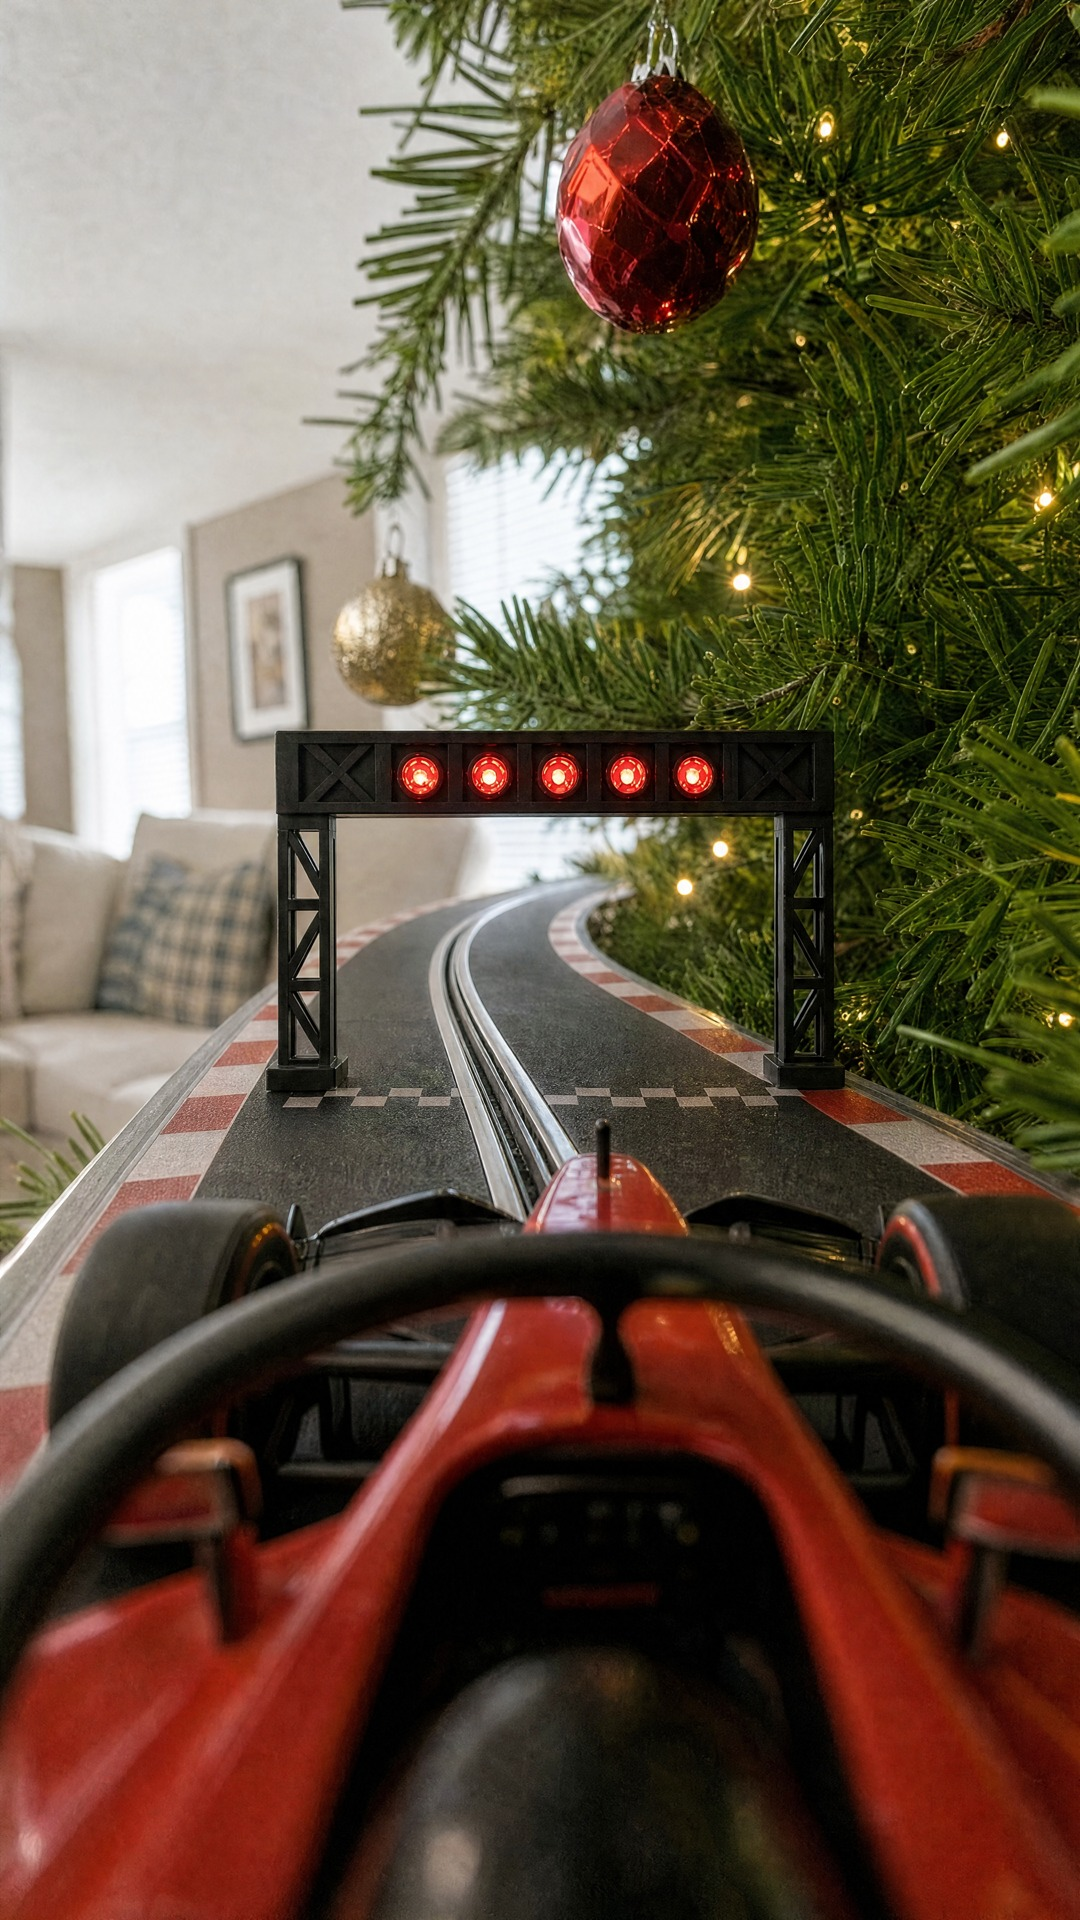
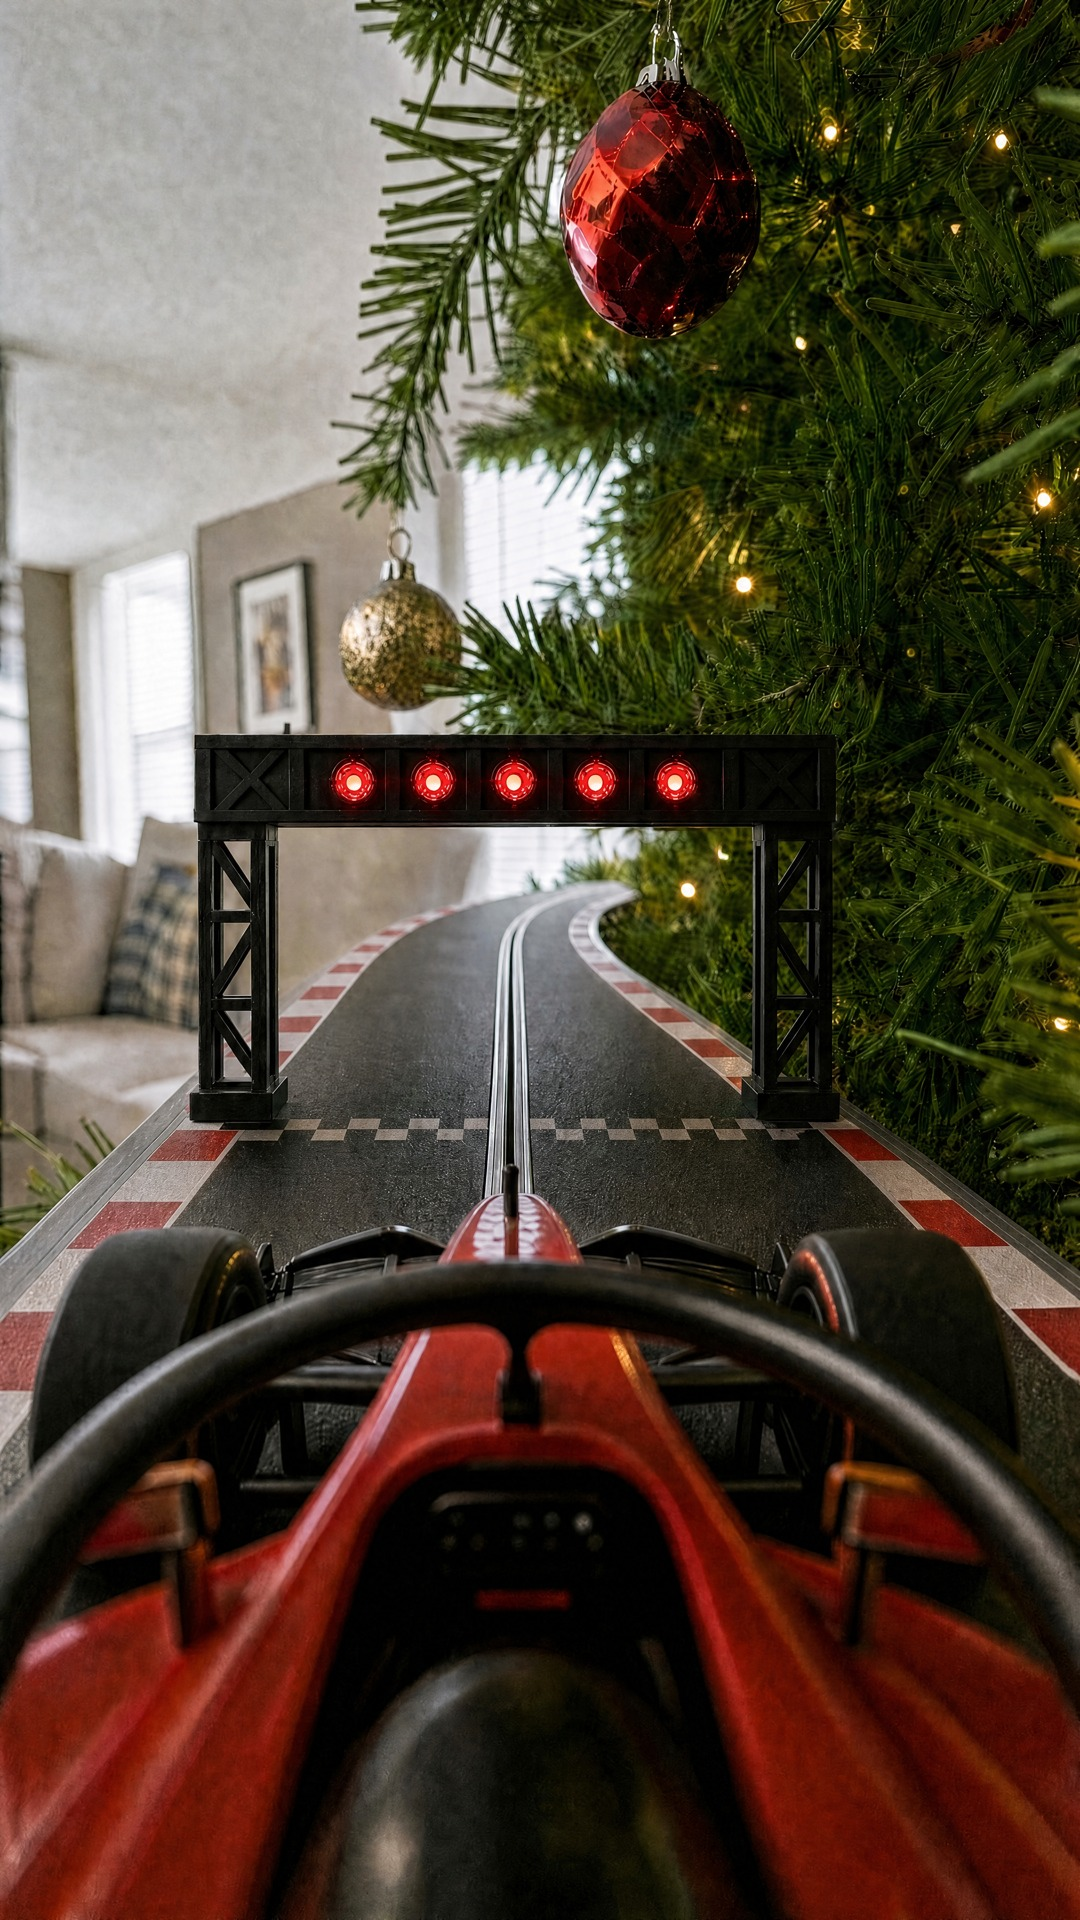
TREE PRIX: telecomanda volan F1, POV simetric, poza in cursa refacuta
Claude-Session: https://claude.ai/code/session_0182QBD7L6o3B4fpDgewD35i

diff --git a/products/f1-tree-racer/render_scena.py b/products/f1-tree-racer/render_scena.py
@@ -8,7 +8,10 @@ TREE_H, TREE_R = 213, 70
 tree = lambda h: TREE_R * (1 - h / TREE_H)
 RH, RR, LANE = 70, 55, 10                      # înălțime cerc, rază, lățime bandă
 TH_G = np.radians(-55)                          # semaforul în față-dreapta (să se vadă din față)
-TH_C = TH_G - np.radians(17)                    # mașina: înainte de linie (sens trigonometric)
+TH_C = TH_G - np.radians(17)
+import os
+if os.environ.get('CAR_DEG'): TH_C = np.radians(float(os.environ['CAR_DEG']))
+LIGHTS_ON = os.environ.get('LIGHTS', '1') == '1'                    # mașina: înainte de linie (sens trigonometric)
 W, H = 1080, 1920
 quads = []                                      # (puncte 3D, culoare, verificare_ocluzie)
 def ringpt(th, off, z=RH): r = RR + off; return np.array([r*np.cos(th), r*np.sin(th), z])
@@ -47,14 +50,14 @@ for k in range(5):
     c = ringpt(TH_G, -3.6 + 1.8*k, RH+12.2) - t*0.85
     quads.append((np.array([c + r*0.6, c + r*0.6 + np.array([0,0,0.0]) + np.array([0,0,1.2])*0, c, c]) , (0,0,0), True)) if False else None
     q = np.array([c - r*0.6, c + r*0.6, c + r*0.6 + np.array([0, 0, 1.2]) - np.array([0,0,2.4]), c - r*0.6 - np.array([0, 0, 1.2])])
-    quads.append((np.array([c - r*0.6 + [0,0,0.6], c + r*0.6 + [0,0,0.6], c + r*0.6 - [0,0,0.6], c - r*0.6 - [0,0,0.6]]), (230, 30, 30), True))
+    quads.append((np.array([c - r*0.6 + [0,0,0.6], c + r*0.6 + [0,0,0.6], c + r*0.6 - [0,0,0.6], c - r*0.6 - [0,0,0.6]]), (230, 30, 30) if LIGHTS_ON else (60, 20, 20), True))
 # mașina: bloc 16 x 6 x 4, orientat pe tangentă, centrat pe șanț; bot spre sensul de mers
 t, r = frame(TH_C)
 box(ringpt(TH_C, 0), t, r, 16, 6, 3, (190, 25, 25))
 box(ringpt(TH_C, 0) + t*7.2, t, r, 1.6, 7.5, 0.8, (30, 30, 30))      # aripa față (în sensul de mers)
 box(ringpt(TH_C, 0) - t*7.2, t, r, 1.6, 6.5, 3.8, (30, 30, 30))      # aripa spate
 # camere
-if VIEW == "hero":
+if VIEW in ("hero", "cursa"):
     cam = np.array([0, -340, 120]); look = np.array([0, 0, 95]); fov = np.radians(40)
 elif VIEW == "aproape":                          # din spatele mașinii, la nivelul pistei, puțin în afara cercului
     t, r = frame(TH_C); cam = ringpt(TH_C, 4, RH + 13) - t*32; look = ringpt(TH_G, -6, RH + 3); fov = np.radians(60)
@@ -70,12 +73,12 @@ def hidden(P):
     return np.any((R[:, 2] > 0) & (R[:, 2] < TREE_H) & (rr < CORE(R[:, 2])))
 img = Image.new("RGB", (W, H), (236, 230, 218)); dr = ImageDraw.Draw(img)
 # podea
-if VIEW == "hero": dr.rectangle([0, int(H*0.8), W, H], fill=(190, 160, 120))
+if VIEW in ("hero", "cursa"): dr.rectangle([0, int(H*0.8), W, H], fill=(190, 160, 120))
 # brad: con opac (fețele vizibile), desenat după adâncime împreună cu restul
 zs = np.linspace(0, TREE_H, 90); ths = np.linspace(0, 2*np.pi, 160)
 for i in range(len(zs)-1):
     for j in range(len(ths)-1):
-        pz = lambda z, th: np.array([CORE(z)*np.cos(th) if VIEW != 'hero' else tree(z)*np.cos(th), (CORE(z) if VIEW != 'hero' else tree(z))*np.sin(th), z])
+        pz = lambda z, th: np.array([CORE(z)*np.cos(th) if VIEW not in ('hero','cursa') else tree(z)*np.cos(th), (CORE(z) if VIEW not in ('hero','cursa') else tree(z))*np.sin(th), z])
         q = np.array([pz(zs[i], ths[j]), pz(zs[i], ths[j+1]), pz(zs[i+1], ths[j+1]), pz(zs[i+1], ths[j])])
         n = np.array([np.cos((ths[j]+ths[j+1])/2), np.sin((ths[j]+ths[j+1])/2), 0])
         if (q.mean(0) - cam) @ n > 0: continue
@@ -84,6 +87,6 @@ order = sorted(quads, key=lambda qc: -np.mean((qc[0] - cam) @ fwd))
 for q, col, chk in order:
     xy, z = proj(q)
     if (z <= 1).any(): continue
-    if chk and VIEW == "hero" and hidden(q.mean(0)): continue
+    if chk and VIEW in ("hero", "cursa") and hidden(q.mean(0)): continue
     dr.polygon([tuple(v) for v in xy], fill=col)
 img.save(OUT); print(OUT)

diff --git a/products/f1-tree-racer/qa-tree-prix.md b/products/f1-tree-racer/qa-tree-prix.md
@@ -4,7 +4,8 @@
 3. Mașina pe mijlocul șinei: șanțul intră sub mijlocul botului, iese sub mijlocul spatelui, spațiu egal stânga-dreapta, roțile în interiorul bordurilor.
 4. Mașina orientată pe direcția pistei (tangentă la cerc), mărime corectă (~60% din lățimea benzii).
 5. La start: mașina în SPATELE liniei în carouri; linia traversează toată banda, sub semafor.
-6. Semaforul stă PE pistă (picioarele pe borduri), 5 lumini roșii, nu plutește, nu e în brad.
+6. Semaforul stă PE pistă (picioarele pe borduri), 5 lumini roșii, nu plutește, nu e în brad. SIMETRIC: centrat pe șanț, cele două picioare la distanțe egale de șanț (mai ales în POV, unde se vede din față).
+10. Telecomanda de pornire = volan F1 mic (negru-roșu, buton START roșu mare la mijloc, 5 luminițe deasupra, clapetă de viteză în spate), cu cablu la cutia de curent.
 7. LED-urile doar pe marginea exterioară.
 8. Ziua, lumină foarte moale și naturală; fără text în afară de cutie; fără logouri.
 9. Setul din cutie: 12 bucăți de pistă, 1 semafor, 1 linie start, 1 mașină, 1 colier, 6 brațe, clipsuri, cutie curent, 1 mâner, încărcător, piese de schimb.

diff --git a/products/f1-tree-racer.md b/products/f1-tree-racer.md
@@ -113,3 +113,9 @@ Verificat cu `qa-tree-prix.md`. Pozițiile (direcția curbei, mașina, semaforul
 | 5 cutia TREE PRIX (zi) | 181d1d08-a952-4c8e-8d1e-3b7e15cd7d14 |
 | 6 în cursă | c2377f38-556b-4203-94eb-1a49cb18d6c8 |
 Lecție: gpt_image_2 curbează pista spre dreapta din instinct → la POV bradul se pune în dreapta; la celelalte se pornește din randare.
+
+## 23 oct — actualizări set pe zi
+- Telecomanda de pornire NOUĂ: volan F1 mic (negru-roșu, buton START roșu, 5 LED-uri, clapetă viteză) — 7-telecomanda-volan.jpg 77882b76-0e91-4b62-8725-d886f8dc66ee; în cutie: 4-ce-e-in-cutie.jpg 04f91c21-d8a0-41f3-9d22-9df7351b9b4a
+- 6 în cursă refăcut (mașina mică, centrată, pe direcția pistei): de6cc992-88c9-41fc-8974-4ec44893d0d9 (randare scena-cursa 86dbb7a5)
+- 3 POV simetric: semaforul mutat la pixel peste șanț (OpenCV) + curățat: 3d6e85ea-9ec9-4f16-9869-409c294d07b8. Verificat cu linie de control: șanț = mijlocul botului = lumina 3 = mijlocul picioarelor.
+- Lecție: generatorul pune mașina/semaforul „aproape” centrat, nu exact → măsor pe imagine (linie de control) și corectez la pixel când e nevoie.
